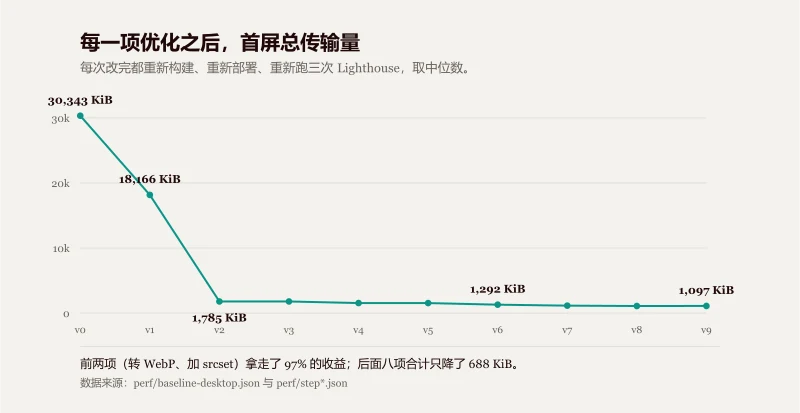
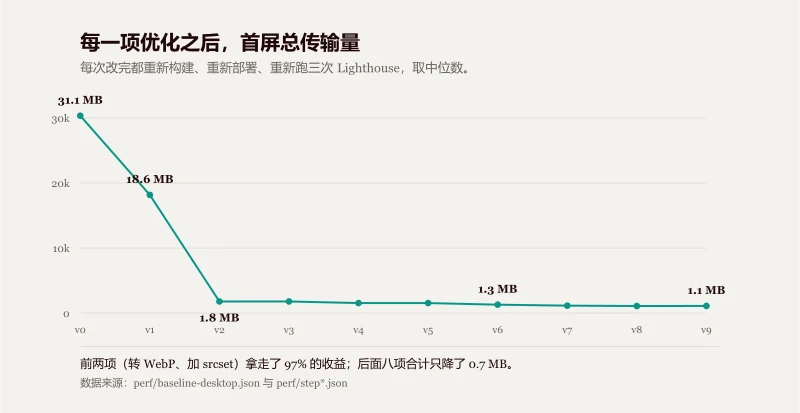
fix(content): 修手机上图裂（srcset 声明了不存在的 1200 档）+ 全文改回普通记录口吻 + 体积单位统一成十进制 MB

diff --git a/src/data/projects.ts b/src/data/projects.ts
@@ -5,7 +5,7 @@
  * 【以后要换】接 CloudBase 时只替换本文件内部的取数实现，
  *   `getProjectBySlug` / `getFeaturedProjects` 的签名不变，页面代码不用动。
  *
- * 文案口径提醒：正文里的数字与措辞对不上简历时，以实际测到的为准，别倒过来改数字。
+ * 文案口径提醒：正文里的数字要和 `perf/` 里的报告一致；不一致时以实测为准，别倒过来改数字。
  */
 
 export interface ProjectSection {
@@ -43,10 +43,10 @@ export interface ProjectMeta {
 export const projects: ProjectMeta[] = [
   {
     slug: 'program2026',
-    name: 'Program2026 · 个人作品集与技术博客',
+    name: 'Program2026 · 技术博客与性能实验',
     tagline: '本站。同一份内容，优化前后各部署一版，数字摊开给人看。',
     summary:
-      '一个纯前端的作品集 + 技术博客站点：Markdown 在构建时编译成页面，评论区用乐观更新保证即时反馈，图片、缓存与分包策略都做过实测对照。',
+      '一个纯前端的技术博客：Markdown 在构建时编译成页面，评论区用乐观更新保证即时反馈，图片、缓存与分包策略都做过实测对照。',
     role: '独立开发',
     period: '2026.02 - 至今',
     stack: ['Vue 3', 'TypeScript', 'Vite', 'Pinia', 'Markdown-it', 'Shiki'],
@@ -61,8 +61,8 @@ export const projects: ProjectMeta[] = [
       {
         heading: '这个站想解决什么问题',
         paragraphs: [
-          '面试官打开一个作品集，最想知道三件事：这人能不能写、有没有自己的判断、讲不讲得清楚。前两件事靠代码，第三件事靠页面本身。',
-          '所以我没有把它做成一份「亮技能条」的简历页，而是当成一个真实的小产品在做：有内容、有评论、有取舍记录，也把「怎么验证」这一步留在站内。',
+          '它是一个真实在用的小产品，不是一份技能清单：有文章、有评论、有取舍记录，也把「怎么验证」这一步留在站内。',
+          '写它的过程中攒下的东西比页面本身多——下面这些技术决定，每一条都是做的时候踩到问题才定下来的，不是先有方案再套上去的。',
         ],
       },
       {
@@ -71,16 +71,16 @@ export const projects: ProjectMeta[] = [
           '**文章走构建时渲染**：自己写了一个 Vite 插件，在打包阶段用 markdown-it + Shiki 把 .md 编译成 HTML，客户端一个解析库都不下载。代价是改文章要重新构建部署——对博客来说这个代价可以接受。',
           '**URL 是筛选状态的唯一数据源**：分页、分类、标签、关键词全部写进 query，页面只是读它。好处是刷新、前进后退、分享链接都能还原视图。',
           '**评论区用乐观更新**：点发表先上屏，请求失败再干净地回滚，配合客户端临时 id 与防重复提交保证状态一致。',
-          '**不做后端**：后端不写进简历，也不假装会。内容存在仓库里，评论与登录用云开发服务，数据层抽成适配器，换实现不影响页面。',
+          '**不做后端**：内容存在仓库里，评论与登录用云开发服务，数据层抽成适配器，换实现不影响页面。',
         ],
       },
       {
         heading: '性能优化这一块是怎么做的',
         paragraphs: [
-          '这类内容最容易被问穿，所以我用了最笨但最经得起问的办法：功能写完先打一个 git tag 把「优化前」冻结住，之后一项一项地优化，每改一项就重新构建、重新跑一次 Lighthouse，把原始 JSON 存进仓库。',
+          '这类内容最容易写着写着变成「我做了优化」，所以我用了最笨也最清楚的办法：功能写完先打一个 git tag 把「优化前」冻结住，之后一项一项地优化，每改一项就重新构建、重新跑一次 Lighthouse，把原始 JSON 存进仓库。',
         ],
         bullets: [
-          '两个版本都真实部署，站内给两个入口，面试官可以自己点开对比',
+          '两个版本都真实部署，站内给两个入口，点一下就换过去',
           '每一项都记「预期收益 vs 实测收益」，**没有效果的那几项也如实写上**',
           '所有数字都来自 Lighthouse 的 JSON 报告，跑测命令写在 README 里，可以自己复现',
         ],

diff --git a/src/styles/article.scss b/src/styles/article.scss
@@ -8,6 +8,8 @@
  * 所以这一份的责任边界很清楚：谁被 v-html 插进来，谁就归它管。
  */
 
+@use '@/styles/breakpoints' as *;
+
 .article-body {
   font-size: var(--body-size);
   line-height: var(--leading);
@@ -128,6 +130,21 @@
     border-collapse: collapse;
     margin: 0 0 26px;
     font-size: 15px;
+  }
+
+  /* 窄屏：表格不挤成一列一列地换行，改成可横向滑动。
+     数字类的表格在手机上换行会读不出对应关系（「7,810」和「ms」被拆到两行）。 */
+  @include sm-down {
+    table {
+      display: block;
+      overflow-x: auto;
+      white-space: nowrap;
+
+      th,
+      td {
+        padding: 8px 10px;
+      }
+    }
   }
 
   thead th {

diff --git a/index.html b/index.html
@@ -3,7 +3,7 @@
   <head>
     <meta charset="UTF-8" />
     <meta name="viewport" content="width=device-width, initial-scale=1.0" />
-    <meta name="description" content="曾泽龙 · 前端工程师 · 个人作品集与技术博客" />
+    <meta name="description" content="曾泽龙 · 前端工程师 · 个人技术博客" />
     <link rel="icon" type="image/svg+xml" href="/favicon.svg" />
     <!--
       优化项 9 · 预加载。

diff --git a/src/views/AboutView.vue b/src/views/AboutView.vue
@@ -3,7 +3,7 @@
  * 关于我。
  *
  * 这里的文案是**占位**：结构先定下来，措辞与取舍等站点基本做完后你自己筛一遍——
- * 哪些能给面试官看、哪些不必写，你说了算。
+ * 哪些写、哪些不写，你说了算。
  */
 
 const contact = [

diff --git a/src/layouts/DefaultLayout.vue b/src/layouts/DefaultLayout.vue
@@ -106,7 +106,7 @@ watch(
 
   <footer class="foot">
     <div class="wrap">
-      曾泽龙 · 前端工程师 · 本站为个人作品集与技术博客，源码公开
+      曾泽龙 · 前端工程师 · 本站为个人技术博客，源码公开
     </div>
   </footer>
 </template>

diff --git a/content/posts/first-screen-30mb-to-1mb.md b/content/posts/first-screen-30mb-to-1mb.md
@@ -1,6 +1,6 @@
 ---
-title: 首屏 30 MB → 1.1 MB：十项优化，前两项拿走了 97% 的收益
-summary: 同一份内容部署两个版本，一个慢一个快，数字全在报告里。这篇文章写的是每一项做了什么、哪几项其实没用、以及为什么分数不能只写一个数。
+title: 首屏 31 MB → 1.1 MB：十项优化，前两项拿走了 97% 的收益
+summary: 一个内容站从 31 MB 首屏降到 1.1 MB 的完整记录。每一步改了什么、哪几项其实没起作用、以及为什么分数不该只记一个数。
 category: 技术
 tags: [性能优化, 图片优化, Lighthouse]
 date: 2026-10-19
@@ -8,50 +8,52 @@ readingMinutes: 9
 cover: /images/covers/mountains.webp
 ---
 
-这个站的优化前版本还在线上：`/naive/`。你可以自己点开跑一遍 Lighthouse，和当前版本对比。**所有数字都是这么测出来的，不是估的。**
+这个站做过一轮完整的性能优化，一共十项改动。首屏传输量从 31.1 MB 降到 1.1 MB，Lighthouse 的 Performance 从 50 到 95。
 
-先给结论，再讲过程：
+优化前的版本还在线上（`/naive/`），点开可以直接对比。下面每一项的数字都来自 `perf/` 目录里存档的原始报告，配图由 `scripts/build-charts.mjs` 读那些报告生成。
+
+先给结论：
 
 | | 优化前 | 现在 |
 | --- | --- | --- |
-| 首屏传输量 | 30,343 KiB | 1,097 KiB |
-| Lighthouse Performance | 50 | 95（5 次中位数） |
+| 首屏传输量 | 31.1 MB | 1.1 MB |
+| Performance | 50 | 95（5 次中位数） |
 | LCP | 7,810 ms | 750–1,190 ms |
 | CLS | 0.436 | 0 |
 
-一共十项改动。**前两项（图片转 WebP、加 `srcset`）拿走了 97% 的收益，后面八项加起来只降了 688 KiB。** 这个分布是我做完才知道的，做之前我以为脚本才是大头。
+前两项（图片转 WebP、加 `srcset`）拿走了 97% 的收益，后面八项加起来只降了 0.7 MB。这个分布我是做完才知道的 —— 动手之前我以为脚本才是大头。
 
-![首屏传输构成：慢版 30,377 KiB，快版 1,097 KiB](/images/tech/transfer-slow-vs-fast.webp)
+![首屏传输构成：优化前 31.1 MB，现在 1.1 MB](/images/tech/transfer-slow-vs-fast.webp)
 
 ## 第一步不是优化，是测量
 
-优化前我先做了一件看起来很浪费时间的事：**把还没优化的版本打上 `v0-naive` 标签，冻结下来**。
+动手之前，我先给当时的版本打了个 `v0-naive` 标签冻结下来。这样后面每改一项，都能把它和最新版本并排跑一遍，看这一项到底动了什么。
 
-理由是后面要拿它做对照。如果只留一个「优化后」的版本，那我说的「快了 96%」就永远是我自己说的，面试官没法验证。冻结之后，这个 tag 的构建产物可以随时重新部署一份，摆在旁边给人点。
+然后定测量口径，这部分比优化手段更影响结论：
 
-然后是测量口径，这个比优化手段更重要：
-
-1. **只测构建产物，不测 `pnpm dev`**。开发服务器不做压缩、不做 tree shaking，测出来的数字是假的。
+1. **只测构建产物，不测 `pnpm dev`**。开发服务器不做压缩、不做 tree shaking，那里测出来的数字没有意义。
 2. **每次跑三遍，取中位数**。单次分数会跳，后面有图。
 3. **冷缓存**。每次跑新建一个 Chrome 用户目录，跑完删掉。
-4. **只测桌面**（`--preset=desktop`）。移动端我确实没测，这是这篇的边界。
+4. **只测桌面**（`--preset=desktop`）。移动端我没有测，这是这篇的边界。
 
-测出来的第一版结果，按体积排完序，方向就清楚了：
+体积单位用十进制 MB（1 MB = 1000 KB）。Lighthouse 报告里显示的是 KiB（1 KiB = 1024 B），同一份数据换了个写法。
+
+第一版报告按体积排完序，方向就清楚了：
 
 | 类型 | 优化前 | 占比 |
 | --- | --- | --- |
-| 图片 | 29,886 KiB | 98% |
-| 脚本 | 402 KiB | 1.3% |
-| 样式 | 54 KiB | 0.2% |
-| 字体 | 0 KiB | 0% |
+| 图片 | 30.6 MB | 98% |
+| 脚本 | 0.41 MB | 1.3% |
+| 样式 | 55 KB | 0.2% |
+| 字体 | 0 KB | 0% |
 
-**图片占了 98%。** 这意味着任何不碰图片的优化，天花板只有 2%。
+图片占了 98%。这意味着不碰图片的优化，天花板只有 2%。
 
 ## 前两项：97% 的收益都在这
 
 ### 一、全部转 WebP
 
-21 张 JPG 一共 36.6 MB，用 `sharp` 转成 WebP（质量 80），变成 21.8 MB。
+21 张 JPG，用 `sharp` 转成 WebP（质量 80），体积从 36.6 MB 变成 20.2 MB。
 
 ```js
 await sharp(src)
@@ -59,7 +61,7 @@ await sharp(src)
   .toFile(dest)
 ```
 
-只降了 40%。第一次看到这个数字我是失望的 —— 我以为 WebP 能省七成。后来才明白：**瓶颈不在格式，在像素量**。一张 3000×3750 的原图，就算用最先进的编码，它还是 3000×3750 的信息量。
+只降了 45%，比我预期的少。原因后来才想明白：**瓶颈不在格式，在像素量**。一张 3000×3750 的原图，就算换成最先进的编码，它携带的信息还是 3000×3750 那么多。
 
 ### 二、`srcset` + `sizes`（这一项才是关键）
 
@@ -82,9 +84,9 @@ await sharp(src)
 - `srcset` 告诉浏览器「这个文件名有多宽」
 - `sizes` 告诉浏览器「我会把它显示成多宽」
 
-浏览器拿这两个信息算出「我到底需要多宽」，再从候选项里挑最接近的。**关键是这个决定发生在 CSS 布局之前**，由预加载扫描器完成 —— 所以 `sizes` 写错，浏览器就挑错档位，而且不会等你布局完再改主意。
+浏览器拿这两个信息算出「我到底需要多宽」，再从候选项里挑最接近的。**这个决定发生在 CSS 布局之前**，由预加载扫描器完成 —— 所以 `sizes` 写错，浏览器就会挑错档位，而且不会等你布局完再改主意。
 
-这一步的效果：18,166 KiB → 1,785 KiB。
+这一步的效果：18.6 MB → 1.8 MB。
 
 ## 中间四项：一个真收益，两个零收益，一个修 bug
 
@@ -92,13 +94,13 @@ await sharp(src)
 
 给非首屏图片加 `loading="lazy"`，桌面端首屏传输量**一点没变**。
 
-原因很实在：Chrome 的懒加载阈值大约是 1250px，而这个站首屏的 21 张图全在阈值以内，浏览器照下不误。只有在手机上（390×844）才真的生效 —— 实测只请求了 9 张。
+原因很实在：Chrome 的懒加载阈值大约 1250px，而这个站首屏的 21 张图全在阈值以内，浏览器照下不误。只有在手机上（390×844）才真的生效 —— 实测只请求了 9 张。
 
-**这条我照实写，因为它比「加了懒加载所以变快了」有用。** 知道一项优化在什么条件下无效，比知道它有效更难。
+知道一项优化在什么条件下无效，比知道它有效难。所以这条我照实记着。
 
 ### 四、`width` / `height` —— 这一项修的是 CLS
 
-CLS 从 0.436 掉到 0，靠的就是给每张图补上真实宽高，CSS 里配 `height: auto`。
+CLS 从 0.436 掉到 0，靠的是给每张图补上真实宽高，CSS 里配 `height: auto`。
 
 这两个属性不是为了排版，是给浏览器一个提前量：图还没到，它就知道该预留多高。没有这个，图片下载完成后会把下面的内容往下推 —— 那个「推一下」就是 CLS。
 
@@ -106,60 +108,58 @@ CLS 从 0.436 掉到 0，靠的就是给每张图补上真实宽高，CSS 里配
 
 ### 五、路由级代码分割 —— 首页省 0 字节
 
-把所有非首页路由改成 `() => import()`，入口包从 403 KiB 降到 290 KiB。
+把所有非首页路由改成 `() => import()`，入口包从 403 KB 降到 290 KB。
 
 但**首页的总传输量没变**，因为首页本来就需要那些代码（登录态、Supabase）。这一项的真实价值是「别的页面首屏更快」，不是「首页更快」。
 
-### 六、Element Plus 按需引入 —— 这里省了 200 KiB
+### 六、Element Plus 按需引入 —— 这里省了 200 KB
 
-全站只用了 5 个组件（Button / Form / FormItem / Input / Pagination）。但原来的写法是 `app.use(ElementPlus)`，全量注册 80 多个组件 —— 一旦全量注册，tree shaking 就失效了，因为打包器无法证明「你没用到别的」。
+全站只用了 5 个组件（Button / Form / FormItem / Input / Pagination）。原来的写法是 `app.use(ElementPlus)`，全量注册 80 多个组件 —— 全量注册之后 tree shaking 就失效了，因为打包器没法确认「你没用到别的」。
 
 改成逐个引入之后：
 
 | | 改之前 | 改之后 |
 | --- | --- | --- |
-| 入口 JS（压缩后） | 287.6 KiB | 90.1 KiB |
-| 入口 CSS（压缩后） | 50.2 KiB | 14.6 KiB |
+| 入口 JS（压缩后） | 295 KB | 92 KB |
+| 入口 CSS（压缩后） | 51 KB | 15 KB |
 
-**估算库的体积，不要看 `node_modules` 有多大，要看你的入口包里它占了多少。**
+要估一个库的体积，别看 `node_modules` 有多大，看你的入口包里它占了多少。
 
 ## 后四项：都是小数，但都得做
 
-- **七、图片质量收口**：题图单独降到 q68，全站编码 `effort` 从 4 拉到 6。图片 1,050 → 901 KiB。降质这件事我先做了 PSNR 对比（q80 是 34.29 dB，q68 是 32.21 dB），又裁了 1:1 的细节图肉眼看，确认看不出差别才动手。
-- **八、把登录态挪出首屏包**：Supabase SDK 原来跟着首页加载（87 KiB）。改成按需异步加载后，脚本 193 → 143 KiB。代价是登录态有 100 ms 左右的延迟，所以顶栏那块要预留固定宽度，否则 CLS 会回来。
-- **九、预加载**：给首屏关键的 chunk 加 `modulepreload`。这一项我在本地做了对照实验（开/关各跑三次），关掉时 LCP 中位数从 1,237 ms 变成 1,423 ms。
-- **十、原图移出 `public`**：仓库里那 21 张原始 JPG（35.7 MB）浏览器从来没下载过，但它们一直在部署产物里。移出去之后部署体积从 69 MB 降到 33.8 MB。**这一项不改任何 Lighthouse 指标**，改的是发布体积 —— 说它「提升了性能」是不诚实的。
+- **七、图片质量收口**：题图单独降到 q68，全站编码 `effort` 从 4 拉到 6。图片 0.92 MB，比上一版少 0.15 MB。降质之前先做了 PSNR 对比（q80 是 34.29 dB，q68 是 32.21 dB），又裁了 1:1 的细节图肉眼看，确认看不出差别才动手。
+- **八、把登录态挪出首屏包**：Supabase SDK 原来跟着首页加载（87 KB）。改成按需异步加载后，脚本从 0.2 MB 降到 0.15 MB。代价是登录态有 100 ms 左右的延迟，所以顶栏那块要预留固定宽度，否则 CLS 会回来。
+- **九、预加载**：给首屏关键的 chunk 加 `modulepreload`。本地做了开关对照（各跑三次），关掉时 LCP 中位数从 1,237 ms 变成 1,423 ms。
+- **十、原图移出 `public`**：仓库里那 21 张原始 JPG（35.7 MB）浏览器从来没下载过，但它们一直在部署产物里。移出去之后部署体积从 69 MB 降到 33.8 MB。**这一项不改任何 Lighthouse 指标**，改的是发布体积。
 
 ![十项优化之后，首屏总传输量的变化](/images/tech/transfer-by-step.webp)
 
-## 为什么分数不能只写一个数
+## 分数不是一个固定值
 
 同一份代码、同一台机器，连跑五次：
 
 ![冷缓存连跑五次的分数分布](/images/tech/perf-score-runs.webp)
 
-慢版 38–52 分（中位 46），快版 94–97 分（中位 95）。
+优化前的版本 38–52 分（中位 46），现在 94–97 分（中位 95）。
 
-**区间本身就是结论的一部分。** 我在简历上写的是「Performance 95」，但心里知道它的含义是「94 到 97 之间，中位 95」。如果面试官当场跑出一个 92，我不该慌 —— 那在正常波动内。
+**记下来的应该是区间加中位数，而不是某一次的好看数字。** 有一次某项改完，分数从 97 掉到 94，我差点以为改坏了。查下来 JS、CSS、请求数一个没变，图片还少了 0.15 MB —— 那 3 分是噪声。
 
-这条经验后来救过我一次：某一项优化做完，分数从 97 掉到 94，我差点以为自己改坏了。查下来是 JS、CSS、请求数一个没变，图片还小了 149 KiB —— 那 3 分就是噪声。
+## 三项「托管层」的东西我没算进这十项
 
-## 三项「托管层」的东西我没算进成绩
-
-有几项经常出现在性能优化的清单里，但这个站上我没法量化，所以**不算成绩**：
+有几项经常出现在性能优化清单里，但这个站上没法量化，所以没有算：
 
 1. **CDN**：GitHub Pages 本身就是 CDN，没有「开」和「不开」两个版本可比。
 2. **HTTP/2**：同上，托管方固定开启。
 3. **缓存策略**：`Cache-Control` 由 GitHub Pages 决定，我改不了。
 
-文档里这三条的写法是「—（托管层，无基线）」。**没有基线的优化，就没有资格写进成绩单。**
+没有基线的优化，我不列为成绩。
 
 ## 如果重来一次，我会这么排
 
-1. 先冻结一个「优化前」版本（不然永远没法自证）
+1. 先把「优化前」的版本冻结下来，不然没有回头对比的基线
 2. 先量，按体积排序，别猜
 3. 打最大的那头，打到打不动为止
-4. 每改一项就测一次，否则你不知道是哪一项起了作用
+4. 每改一项就测一次，否则不知道是哪一项起了作用
 5. 把「没起作用」的那几项也记下来
 
-第 5 条是这篇存在的理由。**大部分性能优化文章只写有效的部分，读者照做之后发现没效果，就以为是自己做错了。**
+第 5 条是这篇存在的理由。大部分优化记录只写有效的部分，读者照着做完发现没效果，会以为是自己做错了。

diff --git a/README.md b/README.md
@@ -1,6 +1,6 @@
-# Program2026 · 个人作品集与技术博客
+# Program2026 · 个人技术博客
 
-一个人的作品集 + 技术博客，同时也是一个**性能优化对照实验**：同一份内容、同一个仓库，部署了优化前和优化后两个版本，任何人都能打开对照，数字不是我自己说的。
+一个纯前端的技术博客，同时是一轮**性能优化的完整记录**：同一份内容、同一个仓库，部署了优化前和优化后两个版本，可以随时打开对比，数字都来自 `perf/` 里存档的原始报告。
 
 ## 在线地址
 

diff --git a/content/posts/optimistic-comment-update.md b/content/posts/optimistic-comment-update.md
@@ -53,7 +53,7 @@ async function submit(text: string) {
 
 做法是把**本地新增**和**远端返回**分开维护，合并时按 id 去重。这样翻页只影响远端那一份，本地那份不动。
 
-## 面试官可能会问
+## 几个当时卡住我的问题
 
 **「失败之后用户打的字去哪了？」**
 还回输入框了。这一点是刻意设计的：用户已经表达了意图，不该因为一次网络抖动就丢掉。
